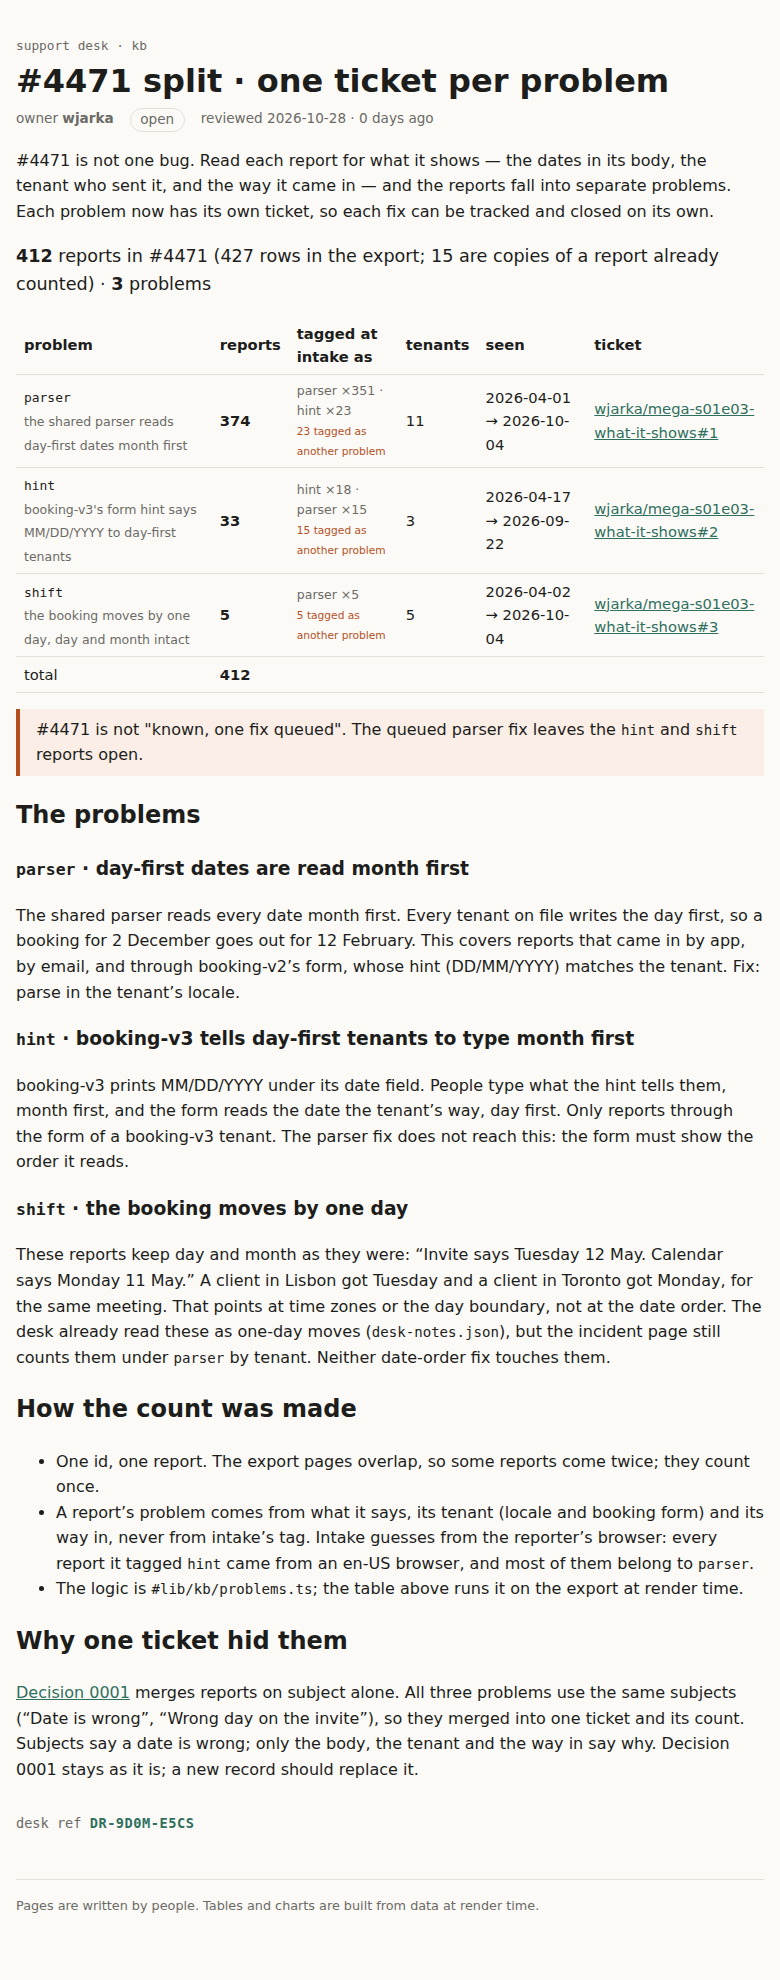
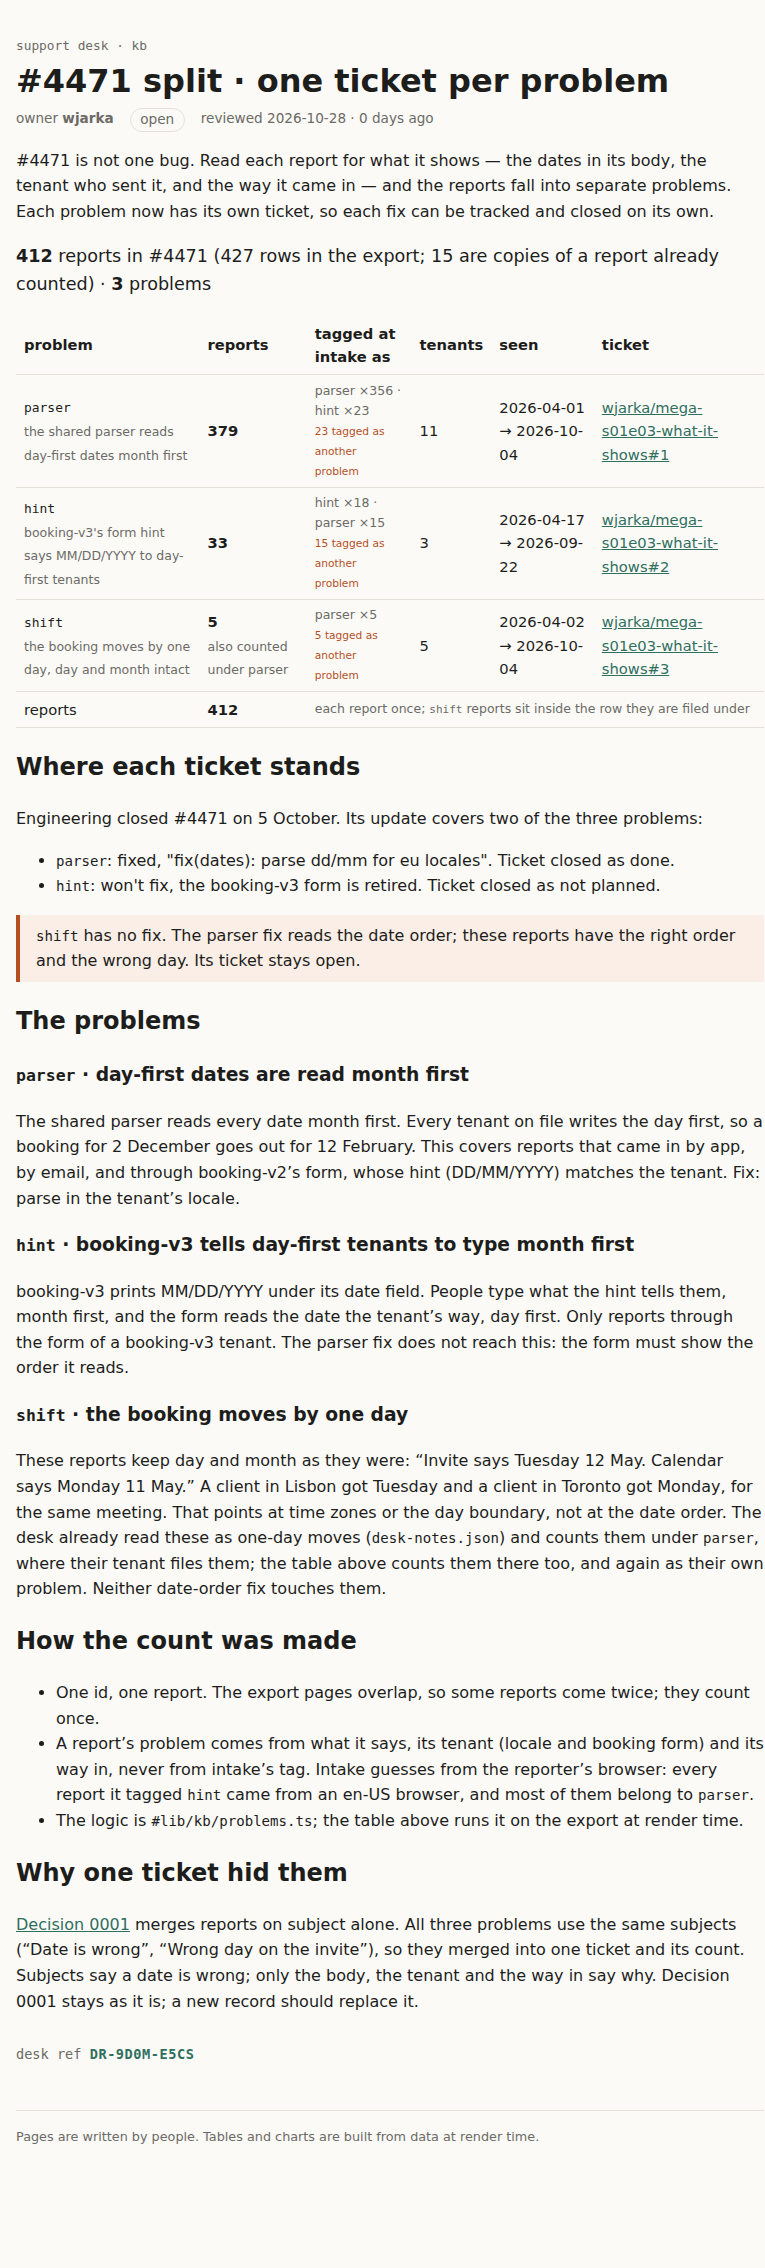
kb: count the split the desk's way and record the #4471 update
parser now counts the one-day moves where the desk files them (379),
shift lists them again as their own problem. The page records the
engineering update: parser fixed, hint won't fix, shift still open.

diff --git a/rendered/split.html b/rendered/split.html
@@ -15,7 +15,8 @@
     <div style="display: contents"><!--[--><!--[--><!--[0--><!--[--><!--[--><!--[-1--><!--[--><div class="kb svelte-e2jw2j"><header><a class="crumb svelte-e2jw2j" href="/kb">support desk · kb</a> <h1 class="svelte-e2jw2j">#4471 split · one ticket per problem</h1> <p class="meta svelte-e2jw2j"><span>owner <b>wjarka</b></span> <span class="status open svelte-e2jw2j">open</span> <span class="svelte-e2jw2j">reviewed 2026-10-28 · 0 days ago</span></p></header> <!--[-1--><!--]--> <main><p>#4471 is not one bug. Read each report for what it shows — the dates in its body, the tenant who
 sent it, and the way it came in — and the reports fall into separate problems. Each problem now has
 its own ticket, so each fix can be tracked and closed on its own.</p> <p class="sum svelte-xskqqx"><strong>412</strong> reports in #4471
-  (427 rows in the export; 15 are copies of a report already counted) · <strong>3</strong> problems</p> <table><thead><tr><th>problem</th><th>reports</th><th>tagged at intake as</th><th>tenants</th><th>seen</th><th>ticket</th></tr></thead><tbody><!--[--><tr><td><code>parser</code> <!--[0--><br/><span class="name svelte-xskqqx">the shared parser reads day-first dates month first</span><!--]--></td><td><strong>374</strong></td><td class="tags svelte-xskqqx">parser ×351 · hint ×23<!--[0--><br/><span class="off svelte-xskqqx">23 tagged as another problem</span><!--]--></td><td>11</td><td>2026-04-01 → 2026-10-04</td><td><!--[-1--><a href="https://github.com/wjarka/mega-s01e03-what-it-shows/issues/1">wjarka/mega-s01e03-what-it-shows#1</a><!--]--></td></tr><tr><td><code>hint</code> <!--[0--><br/><span class="name svelte-xskqqx">booking-v3's form hint says MM/DD/YYYY to day-first tenants</span><!--]--></td><td><strong>33</strong></td><td class="tags svelte-xskqqx">hint ×18 · parser ×15<!--[0--><br/><span class="off svelte-xskqqx">15 tagged as another problem</span><!--]--></td><td>3</td><td>2026-04-17 → 2026-09-22</td><td><!--[-1--><a href="https://github.com/wjarka/mega-s01e03-what-it-shows/issues/2">wjarka/mega-s01e03-what-it-shows#2</a><!--]--></td></tr><tr><td><code>shift</code> <!--[0--><br/><span class="name svelte-xskqqx">the booking moves by one day, day and month intact</span><!--]--></td><td><strong>5</strong></td><td class="tags svelte-xskqqx">parser ×5<!--[0--><br/><span class="off svelte-xskqqx">5 tagged as another problem</span><!--]--></td><td>5</td><td>2026-04-02 → 2026-10-04</td><td><!--[-1--><a href="https://github.com/wjarka/mega-s01e03-what-it-shows/issues/3">wjarka/mega-s01e03-what-it-shows#3</a><!--]--></td></tr><!--]--></tbody><tfoot><tr><td>total</td><td><strong>412</strong></td><td colspan="4"></td></tr></tfoot></table><!----> <aside class="warn svelte-17bri61"><!---->#4471 is not "known, one fix queued". The queued parser fix leaves the <code>hint</code> and <code>shift</code> reports open.<!----></aside><!----> <h2>The problems</h2> <h3><code>parser</code> · day-first dates are read month first</h3> <p>The shared parser reads every date month first. Every tenant on file writes the day first, so a
+  (427 rows in the export; 15 are copies of a report already counted) · <strong>3</strong> problems</p> <table><thead><tr><th>problem</th><th>reports</th><th>tagged at intake as</th><th>tenants</th><th>seen</th><th>ticket</th></tr></thead><tbody><!--[--><tr><td><code>parser</code> <!--[0--><br/><span class="name svelte-xskqqx">the shared parser reads day-first dates month first</span><!--]--></td><td><strong>379</strong> <!--[-1--><!--]--></td><td class="tags svelte-xskqqx">parser ×356 · hint ×23<!--[0--><br/><span class="off svelte-xskqqx">23 tagged as another problem</span><!--]--></td><td>11</td><td>2026-04-01 → 2026-10-04</td><td><!--[-1--><a href="https://github.com/wjarka/mega-s01e03-what-it-shows/issues/1">wjarka/mega-s01e03-what-it-shows#1</a><!--]--></td></tr><tr><td><code>hint</code> <!--[0--><br/><span class="name svelte-xskqqx">booking-v3's form hint says MM/DD/YYYY to day-first tenants</span><!--]--></td><td><strong>33</strong> <!--[-1--><!--]--></td><td class="tags svelte-xskqqx">hint ×18 · parser ×15<!--[0--><br/><span class="off svelte-xskqqx">15 tagged as another problem</span><!--]--></td><td>3</td><td>2026-04-17 → 2026-09-22</td><td><!--[-1--><a href="https://github.com/wjarka/mega-s01e03-what-it-shows/issues/2">wjarka/mega-s01e03-what-it-shows#2</a><!--]--></td></tr><tr><td><code>shift</code> <!--[0--><br/><span class="name svelte-xskqqx">the booking moves by one day, day and month intact</span><!--]--></td><td><strong>5</strong> <!--[0--><br/><span class="name svelte-xskqqx">also counted under parser</span><!--]--></td><td class="tags svelte-xskqqx">parser ×5<!--[0--><br/><span class="off svelte-xskqqx">5 tagged as another problem</span><!--]--></td><td>5</td><td>2026-04-02 → 2026-10-04</td><td><!--[-1--><a href="https://github.com/wjarka/mega-s01e03-what-it-shows/issues/3">wjarka/mega-s01e03-what-it-shows#3</a><!--]--></td></tr><!--]--></tbody><tfoot><tr><td>reports</td><td><strong>412</strong></td><td colspan="4" class="name svelte-xskqqx">each report once; <code>shift</code> reports sit inside the row they are filed under</td></tr></tfoot></table><!----> <h2>Where each ticket stands</h2> <p>Engineering closed #4471 on 5 October. Its update covers two of the three problems:</p> <ul><li><code>parser</code>: fixed, "fix(dates): parse dd/mm for eu locales". Ticket closed as done.</li> <li><code>hint</code>: won't fix, the booking-v3 form is retired. Ticket closed as not planned.</li></ul> <aside class="warn svelte-17bri61"><code>shift</code> has no fix. The parser fix reads the date order; these reports have the right
+order and the wrong day. Its ticket stays open.<!----></aside><!----> <h2>The problems</h2> <h3><code>parser</code> · day-first dates are read month first</h3> <p>The shared parser reads every date month first. Every tenant on file writes the day first, so a
 booking for 2 December goes out for 12 February. This covers reports that came in by app, by email,
 and through booking-v2’s form, whose hint (DD/MM/YYYY) matches the tenant. Fix: parse in the
 tenant’s locale.</p> <h3><code>hint</code> · booking-v3 tells day-first tenants to type month first</h3> <p>booking-v3 prints MM/DD/YYYY under its date field. People type what the hint tells them, month
@@ -23,8 +24,9 @@ first, and the form reads the date the tenant’s way, day first. Only reports t
 booking-v3 tenant. The parser fix does not reach this: the form must show the order it reads.</p> <h3><code>shift</code> · the booking moves by one day</h3> <p>These reports keep day and month as they were: “Invite says Tuesday 12 May. Calendar says Monday
 11 May.” A client in Lisbon got Tuesday and a client in Toronto got Monday, for the same meeting.
 That points at time zones or the day boundary, not at the date order. The desk already read these
-as one-day moves (<code>desk-notes.json</code>), but the incident page still counts them under <code>parser</code> by
-tenant. Neither date-order fix touches them.</p> <h2>How the count was made</h2> <ul><li>One id, one report. The export pages overlap, so some reports come twice; they count once.</li> <li>A report’s problem comes from what it says, its tenant (locale and booking form) and its way in,
+as one-day moves (<code>desk-notes.json</code>) and counts them under <code>parser</code>, where their tenant files them;
+the table above counts them there too, and again as their own problem. Neither date-order fix
+touches them.</p> <h2>How the count was made</h2> <ul><li>One id, one report. The export pages overlap, so some reports come twice; they count once.</li> <li>A report’s problem comes from what it says, its tenant (locale and booking form) and its way in,
 never from intake’s tag. Intake guesses from the reporter’s browser: every report it tagged <code>hint</code> came from an en-US browser, and most of them belong to <code>parser</code>.</li> <li>The logic is <code>#lib/kb/problems.ts</code>; the table above runs it on the export at render time.</li></ul> <h2>Why one ticket hid them</h2> <p><a href="/kb/decisions/0001-dedupe-by-subject">Decision 0001</a> merges reports on subject alone. All three
 problems use the same subjects (“Date is wrong”, “Wrong day on the invite”), so they merged into one
 ticket and its count. Subjects say a date is wrong; only the body, the tenant and the way in say

diff --git a/src/lib/kb/problems.ts b/src/lib/kb/problems.ts
@@ -1,6 +1,7 @@
 // The problems #4471 holds, one ticket each (kb/incidents/4471/split). causes.ts places a report by
 // tenant and channel; that is right for a swapped day and month. A report the desk read as a one-day
-// move (desk-notes.json) has no swap in it, so no parser or hint fix touches it: it is its own problem.
+// move (desk-notes.json) has no swap in it, so no parser or hint fix touches it: it is its own problem,
+// though the desk still counts it under the cause it is filed under.
 import { causeOf, uniqueById, type Cause, type Report, type Tenant } from '#lib/kb/causes';
 
 export type Problem = Cause | 'shift';
@@ -12,10 +13,6 @@ export const PROBLEM_NAMES: Record<Problem, string> = {
   shift: 'the booking moves by one day, day and month intact',
 };
 
-export function problemOf(r: Report, t: Tenant | undefined, oneDayMove: readonly string[]): Problem | null {
-  return oneDayMove.includes(r.id) ? 'shift' : causeOf(r, t);
-}
-
 export type ProblemGroup = {
   problem: Problem | 'unplaced';
   reports: Report[];
@@ -24,11 +21,28 @@ export type ProblemGroup = {
   tenants: string[];
   firstSeen: string;
   lastSeen: string;
+  // For `shift`: the causes the desk files these reports under, and counts them in.
+  filedUnder: Cause[];
 };
 
 export type Split = { rows: number; reports: Report[]; groups: ProblemGroup[] };
 
+function group(problem: ProblemGroup['problem'], rs: Report[], filedUnder: Cause[] = []): ProblemGroup {
+  const days = rs.map((r) => r.receivedAt.slice(0, 10)).sort();
+  return {
+    problem,
+    reports: rs,
+    taggedAs: rs.reduce<Record<string, number>>((n, r) => ({ ...n, [r.meta.intakeTag]: (n[r.meta.intakeTag] ?? 0) + 1 }), {}),
+    tenants: [...new Set(rs.map((r) => r.tenant))].sort(),
+    firstSeen: days[0],
+    lastSeen: days[days.length - 1],
+    filedUnder,
+  };
+}
+
 // Rows in the export, the reports behind them (one id, one report), and those reports by problem.
+// Counted the desk's way (CauseTable): every report under the cause its tenant and way in give it.
+// The one-day moves are counted there too, and again as `shift`, the problem they are.
 export function splitTicket(
   all: Report[],
   ticket: number,
@@ -37,26 +51,19 @@ export function splitTicket(
 ): Split {
   const rows = all.filter((r) => r.mergedInto === ticket);
   const reports = uniqueById(rows);
-  const by = new Map<ProblemGroup['problem'], Report[]>();
+  const by = new Map<Cause | 'unplaced', Report[]>();
   for (const r of reports) {
-    const p = problemOf(r, tenantOf(r), oneDayMove) ?? 'unplaced';
-    by.set(p, [...(by.get(p) ?? []), r]);
+    const c = causeOf(r, tenantOf(r)) ?? 'unplaced';
+    by.set(c, [...(by.get(c) ?? []), r]);
   }
   const order = (p: ProblemGroup['problem']) => (p === 'unplaced' ? PROBLEMS.length : PROBLEMS.indexOf(p));
-  const groups = [...by.entries()]
-    .sort((a, b) => order(a[0]) - order(b[0]))
-    .map(([problem, rs]) => {
-      const days = rs.map((r) => r.receivedAt.slice(0, 10)).sort();
-      return {
-        problem,
-        reports: rs,
-        taggedAs: rs.reduce<Record<string, number>>((n, r) => ({ ...n, [r.meta.intakeTag]: (n[r.meta.intakeTag] ?? 0) + 1 }), {}),
-        tenants: [...new Set(rs.map((r) => r.tenant))].sort(),
-        firstSeen: days[0],
-        lastSeen: days[days.length - 1],
-      };
-    });
-  return { rows: rows.length, reports, groups };
+  const groups = [...by.entries()].map(([c, rs]) => group(c, rs));
+  const moved = reports.filter((r) => oneDayMove.includes(r.id));
+  if (moved.length) {
+    const filed = [...new Set(moved.flatMap((r) => causeOf(r, tenantOf(r)) ?? []))];
+    groups.push(group('shift', moved, filed));
+  }
+  return { rows: rows.length, reports, groups: groups.sort((a, b) => order(a.problem) - order(b.problem)) };
 }
 
 // Reports intake tagged as something other than the problem they belong to.

diff --git a/src/lib/kb/SplitTable.svelte b/src/lib/kb/SplitTable.svelte
@@ -35,7 +35,10 @@
           <code>{g.problem}</code>
           {#if g.problem !== 'unplaced'}<br /><span class="name">{PROBLEM_NAMES[g.problem]}</span>{/if}
         </td>
-        <td><strong>{g.reports.length}</strong></td>
+        <td>
+          <strong>{g.reports.length}</strong>
+          {#if g.filedUnder.length}<br /><span class="name">also counted under {g.filedUnder.join(', ')}</span>{/if}
+        </td>
         <td class="tags">{tags(g)}{#if mistagged(g)}<br /><span class="off">{mistagged(g)} tagged as another problem</span>{/if}</td>
         <td>{g.tenants.length}</td>
         <td>{g.firstSeen} → {g.lastSeen}</td>
@@ -47,7 +50,11 @@
     {/each}
   </tbody>
   <tfoot>
-    <tr><td>total</td><td><strong>{split.groups.reduce((n, g) => n + g.reports.length, 0)}</strong></td><td colspan="4"></td></tr>
+    <tr>
+      <td>reports</td>
+      <td><strong>{split.groups.filter((g) => !g.filedUnder.length).reduce((n, g) => n + g.reports.length, 0)}</strong></td>
+      <td colspan="4" class="name">each report once; <code>shift</code> reports sit inside the row they are filed under</td>
+    </tr>
   </tfoot>
 </table>
 
